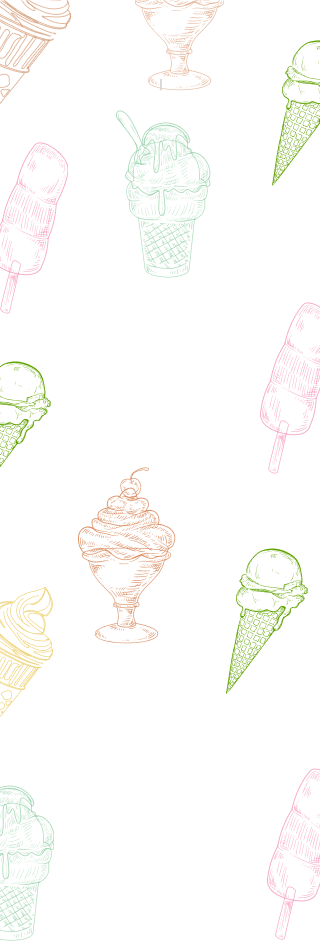
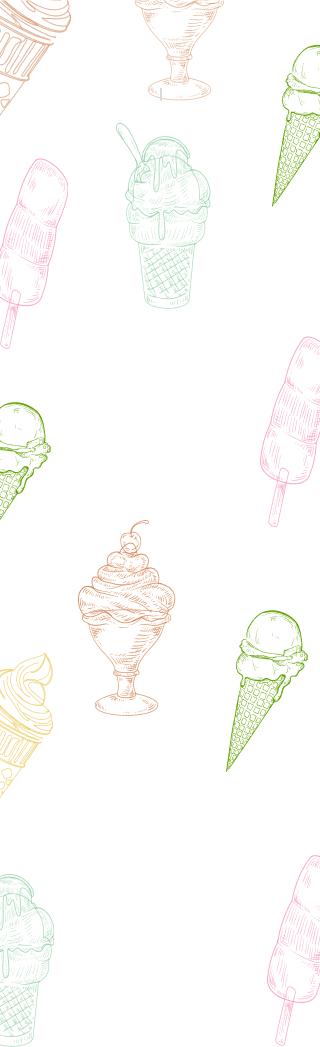
Додає зміни розміра фону, приховані заголовки секції customer-reviews та gallery

diff --git a/src/sass/layout/_customer-reviews.scss b/src/sass/layout/_customer-reviews.scss
@@ -1,10 +1,10 @@
 /* mobile 480px */
 .section-customer-reviews {
-  padding-top: 80px;
+  padding-top: 186px;
   padding-bottom: 394px;
   width: 100%;
-  max-width: 480px;
-  height: 940px;
+  max-width: 320px;
+  height: 1046px;
   margin-left: auto;
   margin-right: auto;
   background-image: url(../images/customer-reviews/bcg-mobile.png);

diff --git a/src/sass/layout/_gallery.scss b/src/sass/layout/_gallery.scss
@@ -31,11 +31,11 @@
   border-radius: 7.4px;
 }
 
-@media screen and (max-width: 767px) {
-  .section-gallery {
-    height: 106px;
-  }
-}
+// @media screen and (max-width: 767px) {
+//   .section-gallery {
+//     height: 106px;
+//   }
+// }
 
 /* tablet 768px */
 @media screen and (min-width: 768px) {

diff --git a/src/partials/customer-reviews.html b/src/partials/customer-reviews.html
@@ -1,5 +1,6 @@
 <section class="section section-customer-reviews customer-reviews">
   <div class="container">
+    <h2 class="section__title visually-hidden">Customer Reviews</h2>
     <!-- Slider main container -->
     <div class="swiper">
       <!-- Additional required wrapper -->

diff --git a/src/partials/gallery.html b/src/partials/gallery.html
@@ -1,5 +1,6 @@
 <section class="section section-gallery gallery">
   <div class="container container-gallery">
+    <h2 class="section__title visually-hidden">Gallery</h2>
     <div class="swiper2">
       <!-- Additional required wrapper -->
       <div class="swiper-wrapper">

diff --git a/src/js/slider.js b/src/js/slider.js
@@ -1,9 +1,7 @@
 const swiper = new Swiper('.swiper', {
-  // Optional parameters
   direction: 'horizontal',
   loop: true,
 
-  // If we need pagination
   pagination: {
     el: '.swiper-pagination',
     type: 'bullets',
